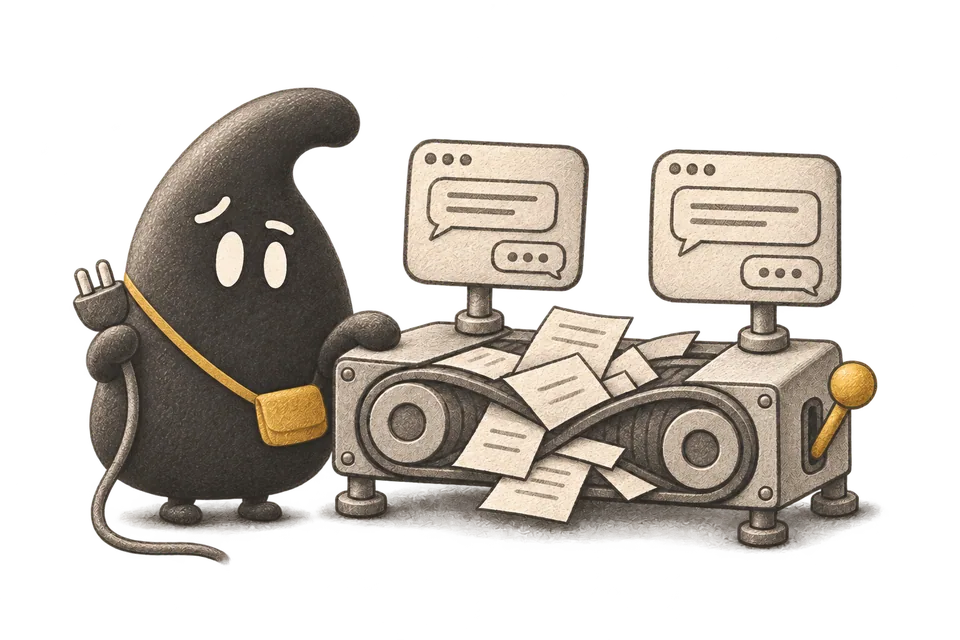
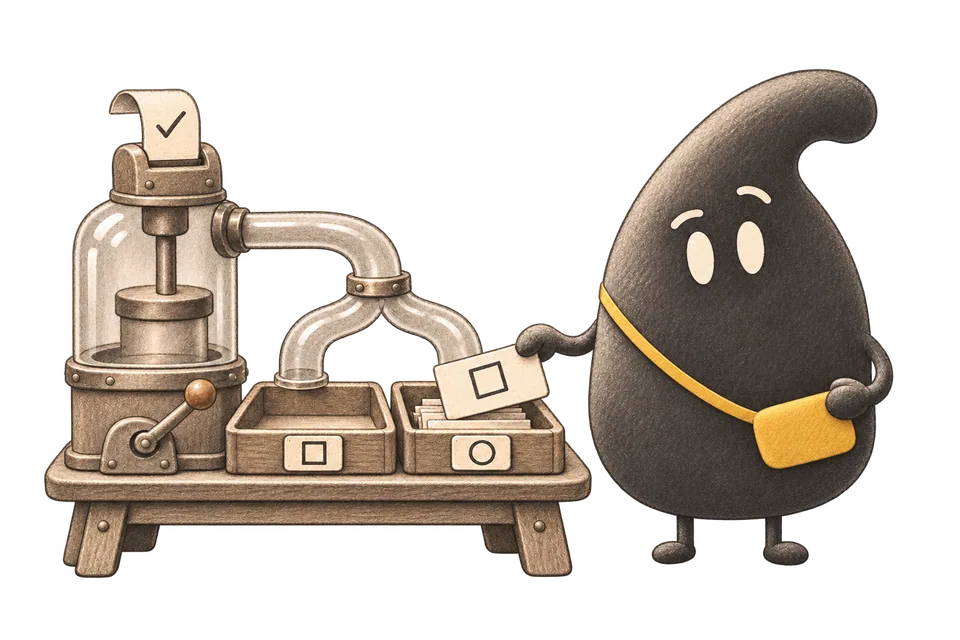
Release v0.24.34 chapter three letter sorter illustration

diff --git a/workbench-footsteps.html b/workbench-footsteps.html
@@ -119,13 +119,13 @@
         <img data-src="/assets/homepage-v0.24.31/reading/03-automation-960.webp"
           data-srcset="/assets/homepage-v0.24.31/reading/03-automation-480.webp 480w, /assets/homepage-v0.24.31/reading/03-automation-960.webp 960w"
           sizes="(max-width: 360px) 240px, (max-width: 680px) 280px, (max-width: 1000px) 42vw, 420px" width="1536" height="1024" loading="lazy" decoding="async"
-          alt="墨点小谁站在卡住的纸张传送带旁，手里拿着拔下的插头。"
-          data-en-alt="Xiaowho stands by a jammed paper conveyor, holding its disconnected plug.">
+          alt="分信机已经吐出打勾的回执，方形标记的任务却落进了圆形格。小谁站在台旁，把投错的信取回来。"
+          data-en-alt="The mail sorter has produced a checked receipt, but a square-marked card landed in the round-marked tray. Xiaowho retrieves the misplaced card by hand.">
         <noscript><img src="/assets/homepage-v0.24.31/reading/03-automation-960.webp"
           srcset="/assets/homepage-v0.24.31/reading/03-automation-480.webp 480w, /assets/homepage-v0.24.31/reading/03-automation-960.webp 960w"
           sizes="(max-width: 360px) 240px, (max-width: 680px) 280px, (max-width: 1000px) 42vw, 420px" width="1536" height="1024" loading="lazy" decoding="async"
-          alt="墨点小谁站在卡住的纸张传送带旁，手里拿着拔下的插头。"
-          data-en-alt="Xiaowho stands by a jammed paper conveyor, holding its disconnected plug."></noscript>
+          alt="分信机已经吐出打勾的回执，方形标记的任务却落进了圆形格。小谁站在台旁，把投错的信取回来。"
+          data-en-alt="The mail sorter has produced a checked receipt, but a square-marked card landed in the round-marked tray. Xiaowho retrieves the misplaced card by hand."></noscript>
       </figure>
       
       <details class="chapter-notes">

diff --git a/README.md b/README.md
@@ -9,7 +9,7 @@
 
 ## Repository
 
-This repository contains the published static site. The current snapshot is v0.24.33. Vercel serves the live site, and GitHub Pages redirects the original `imxiaowho.github.io` URLs to the corresponding paths on `imxiaowho.org`.
+This repository contains the published static site. The current snapshot is v0.24.34. Vercel serves the live site, and GitHub Pages redirects the original `imxiaowho.github.io` URLs to the corresponding paths on `imxiaowho.org`.
 
 For a local static preview, run this command from the repository root.
 
